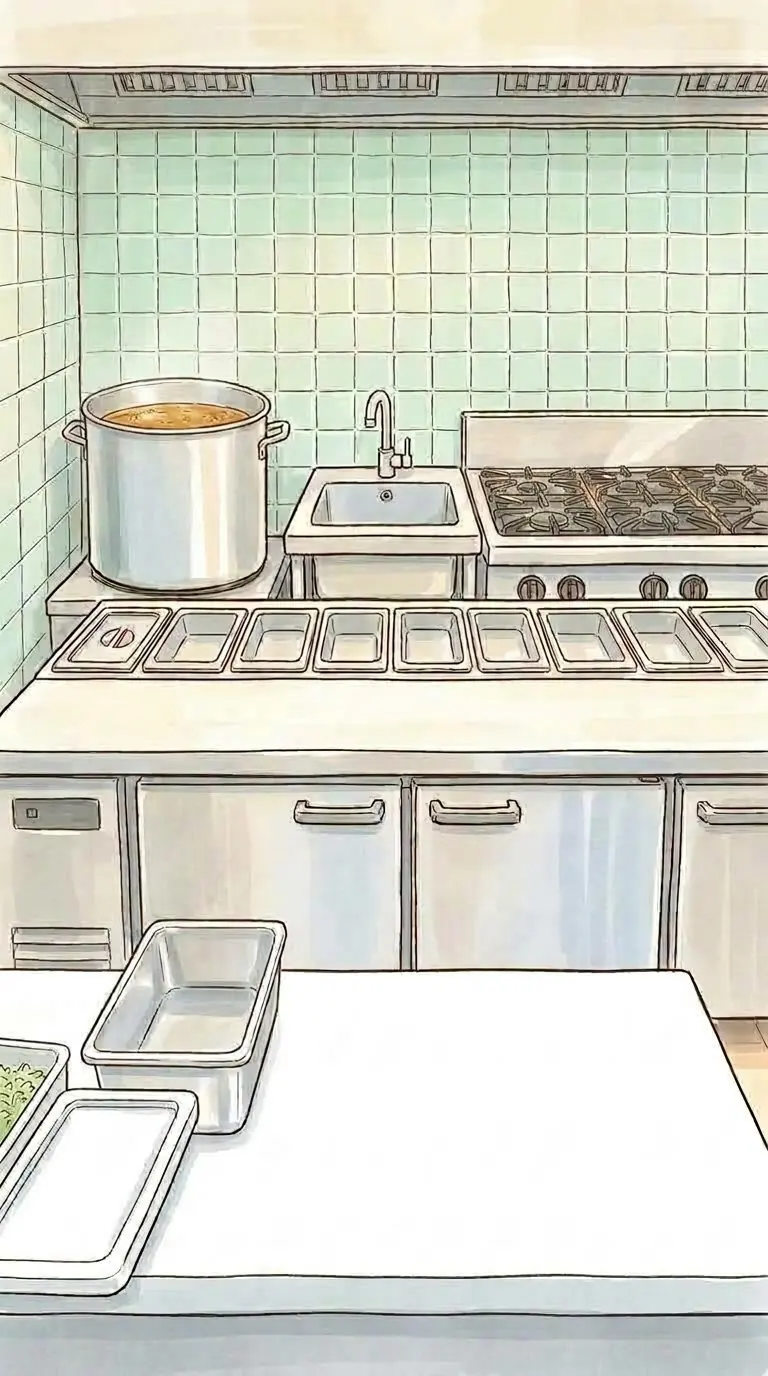
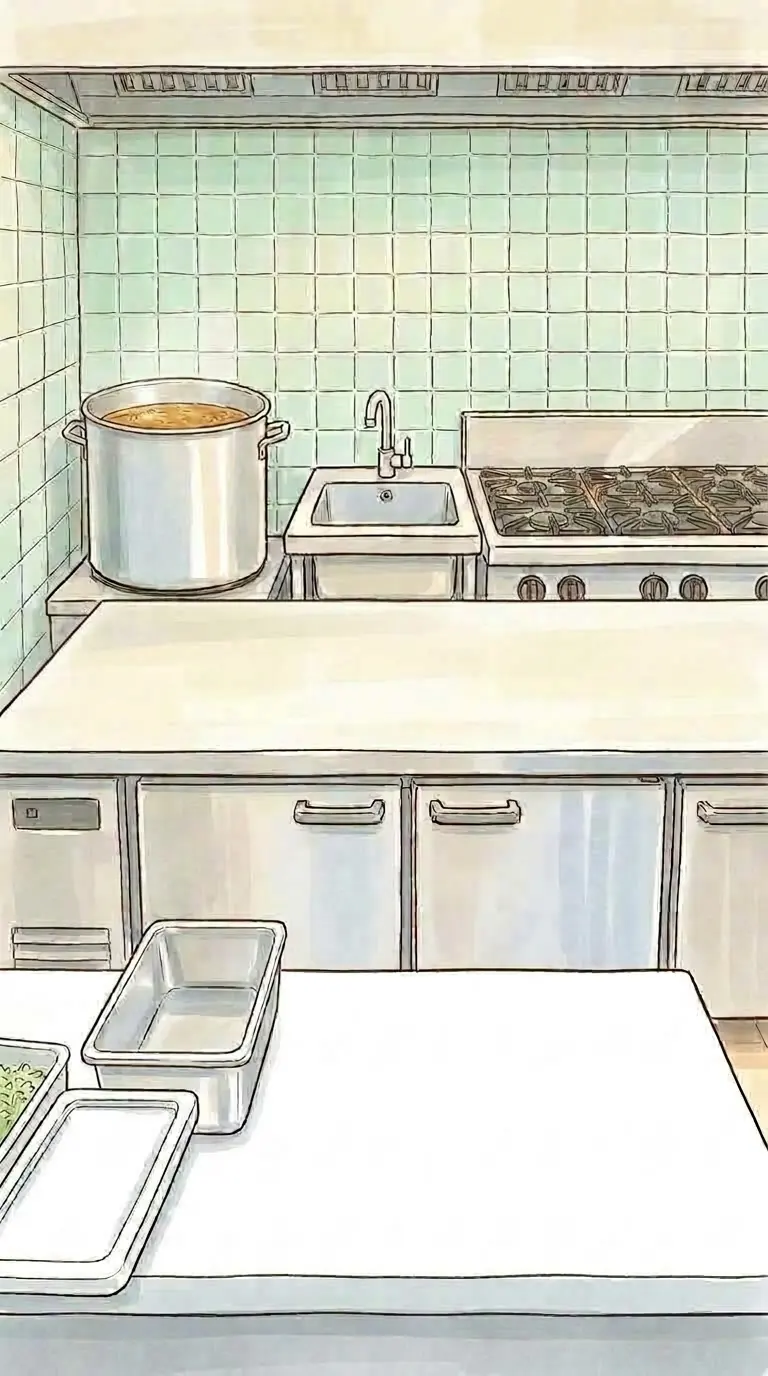
feat(art): 50 khay topping co san do trong khay; khoi phuc sw.js bi ghi rong tu v19

Changed region(s): [[0.0312, 0.4062, 1.0, 0.5], [0.625, 0.3438, 1.0, 0.375], [0.0, 0.7812, 0.0312, 0.8125]]

diff --git a/src/pov.js b/src/pov.js
@@ -3,8 +3,8 @@
 import { D, label, tokenMatches } from './game/recipes.js';
 import { iconUrl } from './game/icons.js';
 import { Counter, povOk } from './game/counter.js';
-import { dishArt, dishArtAt, dishStage, faceArt, fx, hand, stationArt, basketArt, st } from './game/art.js';
-import { POUR, BOWL, SCENE, ZONES, PANS } from './data/counter-layout.js';
+import { dishArt, dishArtAt, dishStage, faceArt, fx, hand, stationArt, basketArt, st, panArt } from './game/art.js';
+import { POUR, BOWL, SCENE, ZONES, PAN_GAP } from './data/counter-layout.js';
 export { povOk };
 
 const $ = (id) => document.getElementById(id);
@@ -42,9 +42,11 @@ export class Pov {
     this.has = { pot: need('pot'), sink: need('sink'), prep: need('prep'), fryer: need('fryer'), microwave: need('microwave'),
       burner: !!Object.keys(C.soups).length && !C.sim?.soupReady, ready: !!Object.keys(C.soups).length };
     const z = (k) => { const b = ZONES[k]; return `left:${b.x}%;top:${b.y}%;width:${b.w}%;height:${b.h}%`; };
-    // Mỗi món đặt vào ĐÚNG khay thứ i theo toạ độ đo từ tranh (PANS), không chia đều.
-    const pan = (it, i) => { const b = PANS[Math.min(i, PANS.length - 1)];
-      return `<div class="pv-pan dragsrc" title="${label(it)}" style="left:${b.x}%;width:${b.w}%" ${src1('item', it)}>${img(it)}<small>${label(it)}</small></div>`; };
+    // Khay là sprite nên có bao nhiêu món thì xếp bấy nhiêu khay, chia đều cả dải.
+    // Trước đây bám theo khay vẽ trong tranh nên Hải Phòng (14 món / 9 khay) đồn 6 món lên một khay.
+    const panCount = [...C.soupItems, ...C.topItems].length;
+    const panW = (100 - PAN_GAP * (panCount - 1)) / panCount;
+    const pan = (it, i) => `<div class="pv-pan dragsrc" title="${label(it)}" style="left:${(i * (panW + PAN_GAP)).toFixed(3)}%;width:${panW.toFixed(3)}%" ${src1('item', it)}><img class="pv-panimg" src="${panArt(it)}" alt="" draggable="false" onerror="this.closest('.pv-pan').classList.add('noart');this.remove()"><i class="pv-ghosticon">${img(it)}</i><small>${label(it)}</small></div>`;
     // Đồ có sprite riêng thì vẽ to đầy ô; icon nhỏ giữ lại (ẩn) để làm cái bay theo ngón tay.
     const src = (it) => { const st = stationArt(it);
       return st

diff --git a/src/data/counter-layout.js b/src/data/counter-layout.js
@@ -15,7 +15,7 @@ export const ZONES = {
   sink:    { x:  37, y:28.5, w:  25, h:  15 },   // bồn xả lạnh
   burner:  { x:  62, y:28.5, w:  23, h:13.5 },   // mặt bếp trái: 2 nồi nước (nồi đã xoá khỏi tranh)
   broth:   { x:  85, y:  30, w:  14, h:  11 },   // nước nấu sẵn ở đầu phải mặt bếp
-  prep:    { x:   0, y:  44, w: 100, h: 5.4 },   // dải khay — vị trí từng khay nằm trong PANS
+  prep:    { x:   4, y:42.5, w:  92, h:   7 },   // dải để khay — khay là sprite, số lượng tự giãn theo món
   fryer:   { x:  85, y:  28, w:  14, h:13.5 },   // chảo chiên đứng đầu phải mặt bếp
   micro:   { x:  66, y:  13, w:  18, h:  13 },   // lò vi sóng trên kệ tường
   stack:   { x:   0, y:  56, w:  15, h:  20 },   // chồng tô + mẹt/dĩa
@@ -50,16 +50,6 @@ export const POUR = {
 
 export const STEAM = { count: 6, spread: 14, gap: 240, duration: 1900, rise: 96 };
 
-/**
- * Vị trí TỪNG khay GN trên dải `prep`, tính theo % chiều ngang CẢ BỨC TRANH.
- *
- * KHÔNG được chia đều! Tranh vẽ có chiều sâu nên khay gần thì rộng, khay xa thì hẹp:
- * khay đầu 12.8% mà khay cuối chỉ 7.6%. Chia đều thì đến khay thứ 7–8 lệch tới 3.5%.
- * Số này do `scripts/measure_pans.py` đo thẳng từ `scene.webp` — đổi tranh thì chạy lại.
- */
-export const PANS = [
-  { x:   7.9, w:  12.8 }, { x:  20.7, w:  10.2 }, { x:  30.9, w:  10.3 },
-  { x:  41.2, w:  10.9 }, { x:  52.1, w:   9.0 }, { x:  61.1, w:  10.2 },
-  { x:  71.3, w:   9.8 }, { x:  81.1, w:  11.3 }, { x:  92.4, w:   7.6 },
-];
+/** Khoảng hở giữa hai khay, tính theo % bề ngang của cả dải `prep`. */
+export const PAN_GAP = 1.2;
 

diff --git a/index.html b/index.html
@@ -241,8 +241,15 @@
       /* dải khay topping: mỗi món đúng MỘT khay vẽ sẵn, đồ nằm TRONG lòng khay */
       .pv-stage .pv-pans { overflow: visible; padding: 0; position: relative; display: block; }
       .pv-stage .pv-pan { position: absolute; top: 0; height: 100%; display: block; }
-      .pv-stage .pv-pan img, .pv-stage .pv-pan .emo { position: absolute; left: 50%; top: 11%;
-        transform: translateX(-50%); width: auto; height: 58%; max-width: 82%; object-fit: contain; }
+      /* khay là MỘT ảnh liền (khay + đồ trong khay), phủ kín ô */
+      .pv-stage .pv-pan .pv-panimg { position: absolute; inset: 0; width: 100%; height: 100%;
+        object-fit: contain; filter: drop-shadow(0 2px 3px rgba(60,44,28,.30)); }
+      .pv-stage .pv-pan .pv-ghosticon { display: none; }
+      .pv-stage .pv-pan.noart { border: 2px dashed rgba(90,66,44,.35); border-radius: 6px; }
+      /* món chưa có ảnh khay thì vẽ icon như cũ */
+      .pv-stage .pv-pan.noart .pv-ghosticon { display: block; position: absolute; left: 50%; top: 14%;
+        transform: translateX(-50%); }
+      .pv-stage .pv-pan.noart .pv-ghosticon img { width: auto; height: 100%; max-height: 26px; }
       .pv-stage .pv-src img, .pv-stage .pv-src .emo { width: auto; height: 42px; max-width: 100%; object-fit: contain; }
       .pv-stage .pv-broth img { width: auto; height: 40px; object-fit: contain; }
       /* đồ trên kệ/khay: bỏ khung trắng để nhìn như đồ nằm trong khay vẽ sẵn */

diff --git a/public/sw.js b/public/sw.js
@@ -1,0 +1,15 @@
+// Quán Bún PWA — cache-first cho tài nguyên build (tên file có hash), network-first cho trang; mở offline được sau lần tải đầu.
+const VERSION = 'qb-' + (self.registration ? self.registration.scope : '') + '-v31';
+const CORE = ['./', './index.html', './manifest.webmanifest', './icon-192.png', './icon-512.png'];
+self.addEventListener('install', (e) => { e.waitUntil(caches.open(VERSION).then((c) => c.addAll(CORE)).then(() => self.skipWaiting())); });
+self.addEventListener('activate', (e) => { e.waitUntil(caches.keys().then((ks) => Promise.all(ks.filter((k) => k !== VERSION).map((k) => caches.delete(k)))).then(() => self.clients.claim())); });
+self.addEventListener('fetch', (e) => {
+  const req = e.request; if (req.method !== 'GET' || new URL(req.url).origin !== location.origin) return;
+  const isPage = req.mode === 'navigate';
+  e.respondWith((async () => {
+    const cache = await caches.open(VERSION);
+    if (isPage) { try { const r = await fetch(req); cache.put('./index.html', r.clone()); return r; } catch { return (await cache.match('./index.html')) || Response.error(); } }
+    const hit = await cache.match(req); if (hit) return hit;
+    try { const r = await fetch(req); if (r.ok) cache.put(req, r.clone()); return r; } catch (err) { return hit || Response.error(); }
+  })());
+});

diff --git a/src/game/art.js b/src/game/art.js
@@ -88,3 +88,10 @@ export const basketArt = (full = false) => `${BASE}st-basket${full ? '-noodle' :
 /** Sprite trạm theo tên file `st-<name>.webp` (chảo chiên, lò vi sóng, nồi nước, thớt…). */
 export const st = (name) => `${BASE}st-${name}.webp`;
 
+/**
+ * Khay topping: MỘT ảnh cho mỗi món, đồ được vẽ sẵn NẰM TRONG khay.
+ * Tất cả nướng từ cùng một cái khay gốc nên hình dạng, góc, nét giống hệt nhau
+ * — xếp bao nhiêu cái cạnh nhau cũng đều. Thiếu ảnh thì pov.js quay về icon cũ.
+ */
+export const panArt = (tok) => `${BASE}pan/${tok}.webp`;
+

diff --git a/scripts/pans_to_webp.py b/scripts/pans_to_webp.py
@@ -1,0 +1,71 @@
+
+"""Cat + chuan hoa anh khay topping thanh sprite deu nhau.
+
+Moi khay do Flow ve lai nen khung hinh moi cai moi khac. Neu bo thang vao hang
+thi cai to cai nho. Nen: cat nen magenta -> cat sat mep do -> phong cho BE NGANG
+bang nhau -> dan vao khung co dinh, can day.
+
+  python scripts/pans_to_webp.py
+"""
+import os, sys
+from PIL import Image, ImageFilter
+import numpy as np
+
+R = os.path.dirname(os.path.dirname(os.path.abspath(__file__)))
+RAW = os.path.join(R, "art", "raw", "pans2")
+CUT = os.path.join(R, "art", "cut-pans")
+OUT = os.path.join(R, "public", "art", "pan")
+W, H = 320, 250          # khung co dinh cua moi khay
+
+def cut(im):
+    a = np.asarray(im.convert("RGB")).astype(np.int16)
+    r, g, b = a[..., 0], a[..., 1], a[..., 2]
+    mag = (r > 110) & (b > 110) & (g < 110) & (abs(r - b) < 90)
+    m = Image.fromarray(np.where(mag, 0, 255).astype(np.uint8), "L")
+    m = m.filter(ImageFilter.MinFilter(3)).filter(ImageFilter.MaxFilter(3))
+    m = m.filter(ImageFilter.GaussianBlur(1.0)).point(lambda v: 0 if v < 128 else 255)
+    out = im.convert("RGBA"); out.putalpha(m)
+    arr = np.asarray(out).astype(np.int16)
+    am = np.asarray(m) > 0
+    edge = am & (np.asarray(m.filter(ImageFilter.MinFilter(5))) == 0)
+    arr[..., 0] = np.where(edge, np.clip(arr[..., 0] - 40, 0, 255), arr[..., 0])
+    arr[..., 2] = np.where(edge, np.clip(arr[..., 2] - 40, 0, 255), arr[..., 2])
+    return Image.fromarray(arr.astype(np.uint8), "RGBA")
+
+def main_blob(im):
+    """Flow hay ve lem mot mieng khay ben canh vao gop anh. Chi giu MANG LON NHAT,
+    xoa sach phan con lai — neu khong, xep hang lai thay via khay thua giua hai khay."""
+    from scipy import ndimage
+    a = np.asarray(im)
+    mask = a[..., 3] > 40
+    lab, n = ndimage.label(mask)
+    if n <= 1:
+        return im
+    sizes = ndimage.sum(mask, lab, range(1, n + 1))
+    keep = int(np.argmax(sizes)) + 1
+    a = a.copy()
+    a[..., 3] = np.where(lab == keep, a[..., 3], 0)
+    return Image.fromarray(a, "RGBA")
+
+def normalise(im):
+    im = main_blob(im)
+    bb = im.getbbox()
+    if bb: im = im.crop(bb)
+    s = W / im.width
+    if im.height * s > H: s = H / im.height
+    im = im.resize((max(1, round(im.width * s)), max(1, round(im.height * s))), Image.LANCZOS)
+    c = Image.new("RGBA", (W, H), (0, 0, 0, 0))
+    c.paste(im, ((W - im.width) // 2, H - im.height), im)   # can day: khay dung tren mat ban
+    return c
+
+if __name__ == "__main__":
+    os.makedirs(CUT, exist_ok=True); os.makedirs(OUT, exist_ok=True)
+    n = 0
+    for f in sorted(os.listdir(RAW)):
+        if not f.endswith(".png"): continue
+        k = f[:-4]
+        im = normalise(cut(Image.open(os.path.join(RAW, f))))
+        im.save(os.path.join(CUT, k + ".png"))
+        im.save(os.path.join(OUT, k + ".webp"), "WEBP", quality=80, method=6)
+        n += 1
+    print(n, "khay ->", OUT)

diff --git a/docs/ART-PIPELINE.md b/docs/ART-PIPELINE.md
@@ -279,3 +279,29 @@ Hai lần trước tui nhìn screenshot thấy "đẹp rồi" trong khi thực t
 **Luật chung:** bất cứ thứ gì lặp lại trên tranh nền (dải khay, hàng bếp, chỗ tô)
 đều phải có toạ độ riêng từng cái, không được `flex` chia đều.
 
+## 10. Dải khay topping: nướng đồ vào khay luôn (17/09)
+
+Ý của Kent: *"generate hình từng khay luôn, mỗi khay 1 item"*. Đúng, và nó gỡ luôn hai thứ:
+
+**Lỗi thật sự tìm ra khi đếm để chuẩn bị gen:** tranh có **9 khay** nhưng thế giới
+Hải Phòng cần **14 món** — 6 món cuối đang chồng hết lên khay số 9.
+Bám theo khay vẽ trong tranh thì không bao giờ sửa được, vì khay là của tranh.
+
+**Cách làm:**
+1. Xoá cả dải khay khỏi tranh → mặt bàn trơn (`scene-strip5-*`).
+2. Mỗi món một ảnh `public/art/pan/<token>.webp` = **khay + đồ nằm trong khay**,
+   tất cả nướng từ CÙNG một cái khay gốc → hình dạng, góc, nét giống hệt.
+3. `pov.js` xếp bao nhiêu khay cũng được, chia đều cả dải — **giờ chia đều là đúng**,
+   vì khay do code vẽ chứ không còn là vật trong tranh có chiều sâu.
+
+### Bậy: **ảnh gốc có gì thì Flow giữ nguyên cái đó**
+Mở đầu tui lấy mẫu là một khay cắt thẳng từ tranh — mà cái crop đó **dính một mép khay
+bên cạnh**. Thế là cả loạt ảnh đều có mẩu khay thừa ở rìa, xếp thành hàng thì lồm chồm.
+Lọc "chỉ giữ mảng lớn nhất" **không cứu được** vì mẩu thừa dính liền với khay chính.
+Phải làm **một cái khay mẫu sạch** trước (`art/raw/scene/pan-seed.png`: khay trống, đứng
+một mình), rồi mới nướng 50 món từ nó. Prompt phải nói thẳng:
+*"ONLY ONE tray … no sliver or edge of another tray anywhere"*.
+
+**Quy trình:** `scripts/pans_to_webp.py` — cắt nền magenta → cắt sát mép → phóng cho bề ngang
+bằng nhau → dán vào khung cố định 320×250, căn đáy. Mô tả từng món ở
+`art/raw/stages/_pan_desc.json` — gen lại thì sửa ở đó.
